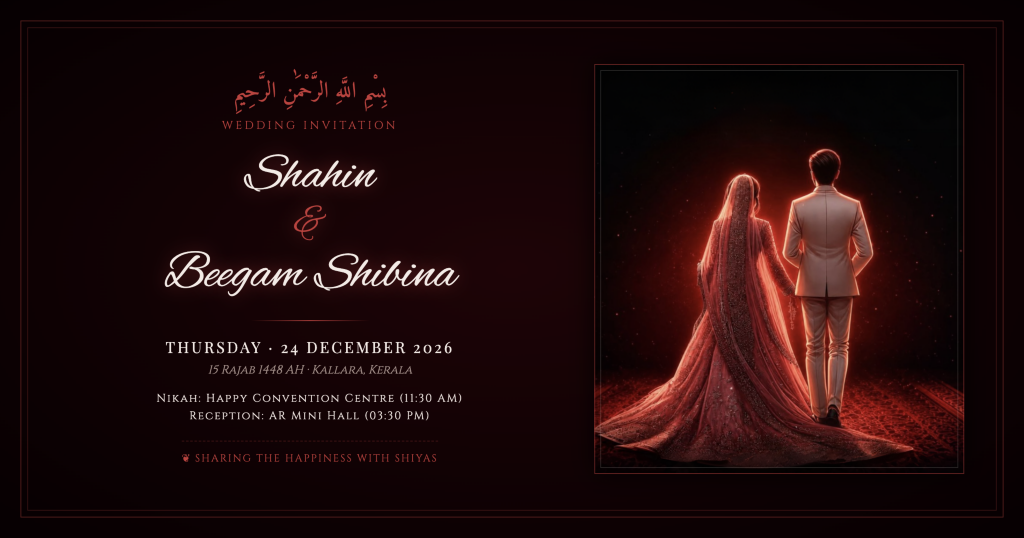
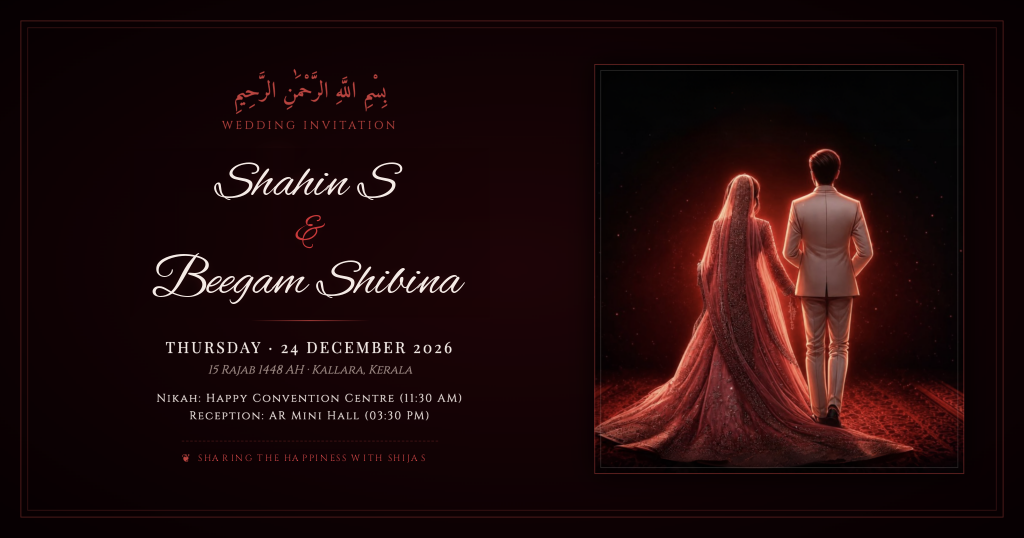
Change groom name to 'Shahin S' across site, update share thumbnail with Shijas and Shahin S, and fix og image URL

Changed region(s): [[0.1562, 0.4461, 0.4688, 0.5651], [0.1875, 0.2677, 0.4062, 0.4461], [0.1875, 0.8327, 0.4375, 0.8625]]

diff --git a/index.html b/index.html
@@ -4,34 +4,34 @@
 <head>
   <meta charset="UTF-8">
   <meta name="viewport" content="width=device-width, initial-scale=1.0">
-  <title>Shahin &amp; Beegam Shibina — Wedding Invitation</title>
+  <title>Shahin S &amp; Beegam Shibina — Wedding Invitation</title>
   <meta name="description"
-    content="Wedding invitation for Shahin and Beegam Shibina — Thursday, 24th December 2026 (15 Rajab 1448) at Happy Convention Centre, Kallara">
+    content="Wedding invitation for Shahin S and Beegam Shibina — Thursday, 24th December 2026 (15 Rajab 1448) at Happy Convention Centre, Kallara">
 
   <!-- Open Graph / WhatsApp / Facebook / Telegram -->
   <meta property="og:type" content="website">
   <meta property="og:url" content="https://shahin-beegam-shibina.vercel.app/">
-  <meta property="og:site_name" content="Shahin &amp; Beegam Shibina — Wedding Invitation">
-  <meta property="og:title" content="Shahin &amp; Beegam Shibina — Wedding Invitation">
+  <meta property="og:site_name" content="Shahin S &amp; Beegam Shibina — Wedding Invitation">
+  <meta property="og:title" content="Shahin S &amp; Beegam Shibina — Wedding Invitation">
   <meta property="og:description" content="Thursday, 24 December 2026 (15 Rajab 1448) · Happy Convention Centre, Kallara">
-  <meta property="og:image" content="https://shahin-beegam-shibina.vercel.app/og-thumbnail.jpg">
-  <meta property="og:image:secure_url" content="https://shahin-beegam-shibina.vercel.app/og-thumbnail.jpg">
+  <meta property="og:image" content="https://raw.githubusercontent.com/muhammedrameesr6-dev/Shahin-Beegam-Shibina/main/og-thumbnail.jpg">
+  <meta property="og:image:secure_url" content="https://raw.githubusercontent.com/muhammedrameesr6-dev/Shahin-Beegam-Shibina/main/og-thumbnail.jpg">
   <meta property="og:image:type" content="image/jpeg">
   <meta property="og:image:width" content="1200">
   <meta property="og:image:height" content="630">
-  <meta property="og:image:alt" content="Shahin &amp; Beegam Shibina — Wedding Invitation">
+  <meta property="og:image:alt" content="Shahin S &amp; Beegam Shibina — Wedding Invitation">
 
   <!-- Schema.org / WhatsApp Fallback -->
-  <meta itemprop="name" content="Shahin &amp; Beegam Shibina — Wedding Invitation">
+  <meta itemprop="name" content="Shahin S &amp; Beegam Shibina — Wedding Invitation">
   <meta itemprop="description" content="Thursday, 24 December 2026 (15 Rajab 1448) · Happy Convention Centre, Kallara">
-  <meta itemprop="image" content="https://shahin-beegam-shibina.vercel.app/og-thumbnail.jpg">
+  <meta itemprop="image" content="https://raw.githubusercontent.com/muhammedrameesr6-dev/Shahin-Beegam-Shibina/main/og-thumbnail.jpg">
 
   <!-- Twitter -->
   <meta name="twitter:card" content="summary_large_image">
   <meta name="twitter:url" content="https://shahin-beegam-shibina.vercel.app/">
-  <meta name="twitter:title" content="Shahin &amp; Beegam Shibina — Wedding Invitation">
+  <meta name="twitter:title" content="Shahin S &amp; Beegam Shibina — Wedding Invitation">
   <meta name="twitter:description" content="Thursday, 24 December 2026 (15 Rajab 1448) · Happy Convention Centre, Kallara">
-  <meta name="twitter:image" content="https://shahin-beegam-shibina.vercel.app/og-thumbnail.jpg">
+  <meta name="twitter:image" content="https://raw.githubusercontent.com/muhammedrameesr6-dev/Shahin-Beegam-Shibina/main/og-thumbnail.jpg">
 
   <link rel="preconnect" href="https://fonts.googleapis.com">
   <link rel="preconnect" href="https://fonts.gstatic.com" crossorigin>
@@ -92,7 +92,7 @@
       </svg>
       <p class="splash-bismillah">بِسْمِ اللَّهِ الرَّحْمَٰنِ الرَّحِيمِ</p>
       <div class="splash-names">
-        <span class="splash-name">Shahin</span>
+        <span class="splash-name">Shahin S</span>
         <span class="splash-amp">&amp;</span>
         <span class="splash-name"><span class="script-b">B</span>eegam Shibina</span>
       </div>
@@ -134,7 +134,7 @@
 
       <h1 class="names">
         <span class="name-block">
-          <span class="name-text">Shahin</span>
+          <span class="name-text">Shahin S</span>
         </span>
         <span class="amp">&amp;</span>
         <span class="name-block">
@@ -183,7 +183,7 @@
           <use href="#sprig-motif" />
         </svg>
         <span class="family-role-badge">The Groom</span>
-        <h3 class="family-name">Shahin. S</h3>
+        <h3 class="family-name">Shahin S</h3>
 
         <p class="family-relation-label">Son of</p>
         <p class="family-parents">Mr. Shajahan<br>&amp; Mrs. Shanifa Beevi</p>
@@ -438,7 +438,7 @@
   <!-- ============ COUPLES INVITATION CARD SECTION ============ -->
   <section class="section couples-section">
     <div class="couples-img-container reveal">
-      <img src="og-thumbnail.jpg" alt="Shahin &amp; Beegam Shibina — Wedding Invitation" class="couples-img" style="margin-bottom: 20px; border: 1px solid rgba(200,57,58,0.3);">
+      <img src="og-thumbnail.jpg" alt="Shahin S &amp; Beegam Shibina — Wedding Invitation" class="couples-img" style="margin-bottom: 20px; border: 1px solid rgba(200,57,58,0.3);">
       <div class="invitation-luxury-card">
         <svg class="splash-sprig" width="30" height="52" aria-hidden="true" style="margin-bottom: 12px; color: var(--gold);">
           <use href="#sprig-motif" />
@@ -446,7 +446,7 @@
         <p class="luxury-card-bismillah">بِسْمِ اللَّهِ الرَّحْمَٰنِ الرَّحِيمِ</p>
         <p class="luxury-card-eyebrow">Wedding Celebration</p>
         <h2 class="luxury-card-names">
-          Shahin <span class="amp">&amp;</span> <span class="script-b">B</span>eegam Shibina
+          Shahin S <span class="amp">&amp;</span> <span class="script-b">B</span>eegam Shibina
         </h2>
         <svg class="glyph-divider small" aria-hidden="true" style="margin: 12px auto;">
           <use href="#divider-motif" />
@@ -530,7 +530,7 @@
     <p class="thankyou-text">
       We are grateful for your love, prayers, and gracious presence on this blessed occasion.
     </p>
-    <p class="thankyou-names">Shahin &amp; <span class="script-b">B</span>eegam Shibina</p>
+    <p class="thankyou-names">Shahin S &amp; <span class="script-b">B</span>eegam Shibina</p>
     <p class="footer-shijas">
       Sharing the happiness with <strong>Shijas</strong>
     </p>

diff --git a/og-card.html b/og-card.html
@@ -3,7 +3,7 @@
 <head>
 <meta charset="utf-8">
 <meta name="viewport" content="width=1200, height=630">
-<title>Shahin &amp; Beegam Shibina — Wedding Invitation Card</title>
+<title>Shahin S &amp; Beegam Shibina — Wedding Invitation Card</title>
 <link rel="preconnect" href="https://fonts.googleapis.com">
 <link rel="preconnect" href="https://fonts.gstatic.com" crossorigin>
 <link href="https://fonts.googleapis.com/css2?family=Alex+Brush&family=Amiri:ital@0;1&family=Cinzel:wght@400;500;600&family=Playfair+Display:ital,wght@0,400;0,600;1,400;1,600&display=swap" rel="stylesheet">
@@ -141,7 +141,7 @@ body {
   <div class="left-col">
     <div class="bismillah">بِسْمِ اللَّهِ الرَّحْمَٰنِ الرَّحِيمِ</div>
     <div class="eyebrow">Wedding Invitation</div>
-    <div class="names">Shahin<span class="amp">&amp;</span>Beegam Shibina</div>
+    <div class="names">Shahin S<span class="amp">&amp;</span>Beegam Shibina</div>
     <div class="divider"></div>
     <div class="date">Thursday · 24 December 2026</div>
     <div class="hijri">15 Rajab 1448 AH · Kallara, Kerala</div>

diff --git a/script.js b/script.js
@@ -261,7 +261,7 @@ function sendWishWhatsApp(e) {
 
   // Construct message for WhatsApp
   const textBody =
-    `*Wedding Wishes for Shahin & Beegam Shibina* ✨\n\n` +
+    `*Wedding Wishes for Shahin S & Beegam Shibina* ✨\n\n` +
     `*From:* ${name}\n\n` +
     `*Message:*\n${message}\n\n` +
     `_Sent via Wedding Invitation Website_`;
